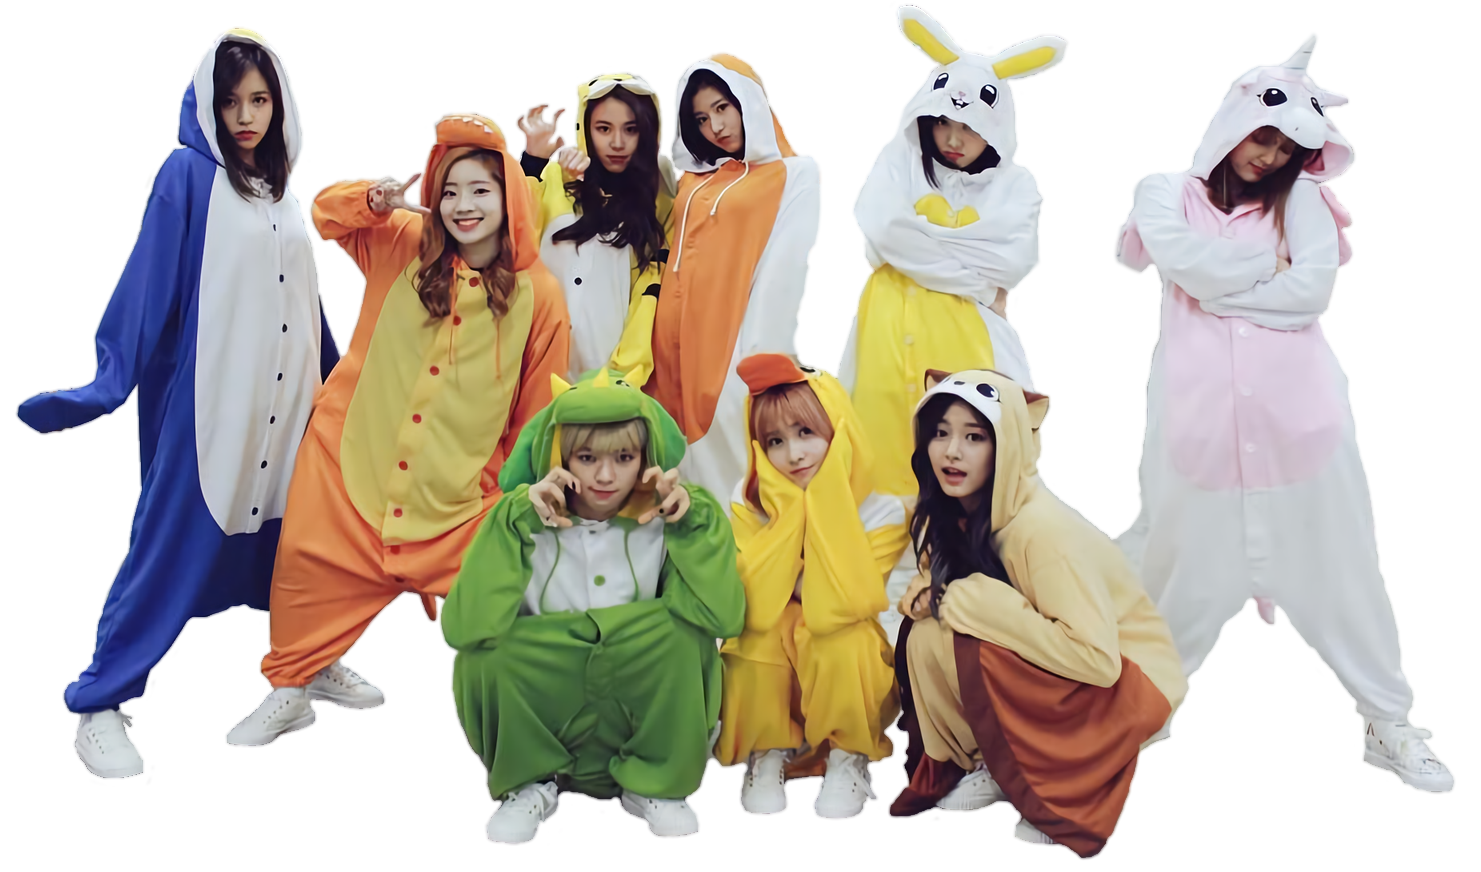
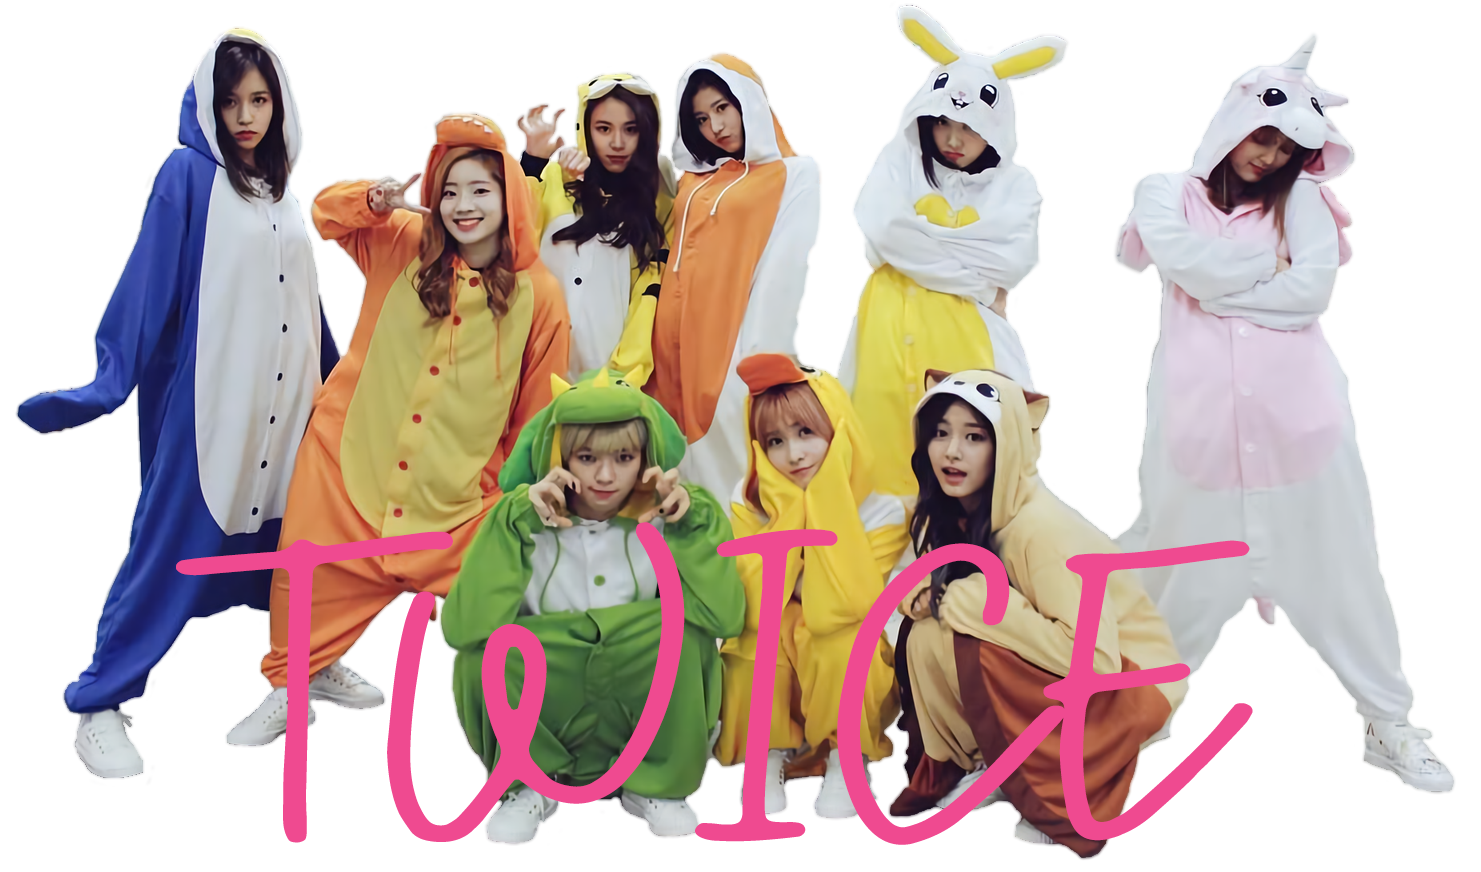
FINAL OUTPUT

Changed region(s): [[0.2485, 0.5883, 0.8697, 0.9908], [0.1242, 0.5883, 0.3106, 0.9599]]

diff --git a/index.html b/index.html
@@ -11,7 +11,7 @@
   <nav class="navbar navbar-expand-md bg-light navbar-light">
     <!-- Brand -->
     <a class="navbar-brand" href="Index.html">
-      <img src="twice-logo-pink.png" width="30" height="30" class="d-inline-block align-top" alt="Twice Dreamland">
+      <img src="twice-logo-trans.png" width="30" height="30" class="d-inline-block align-top" alt="Twice Dreamland">
   </a>
   
     <!-- Toggler/collapsibe Button -->
@@ -44,27 +44,61 @@
       <div class="jumbotron">
         <div class="container">
           <img id="bg-main" src="twice-wallpaper3.png" alt="For the Onces"></img>
-          <p id="cover-front" >TWICE</p>
         </div>
-         
-        <div class="container">
-                    <div class="row">
-                      <div class="col-sm-4">
-                        <img src="twice-logo-pink.png" id="twice-logo-grid1" alt="twice once fans"></img>
-                        <p id="grid">A SIMPLE WEBPAGE ABOUT YOUR BIAS WRECKER!</p>
-                      </div>
-                      <div class="col-sm-4">
-                        <img src="twice-members.jpg" id="twice-members-grid2" alt="bias wreckers"></img>
-                        <p id="grid">LEARN MORE ABOUT YOUR FAVORITE BIAS</p>
-                      </div>
-                      <div class="col-sm-4">
-                        <img src="twice-candybong.jpg" id="twice-candybong-grid3" alt="lighstick"></img>
-                        <p id="grid">&nbsp;&nbsp;&nbsp;&nbsp;&nbsp;&nbsp;&nbsp;&nbsp;&nbsp;&nbsp;&nbsp;&nbsp;&nbsp;&nbsp;&nbsp;&nbsp;&nbsp;&nbsp;&nbsp;&nbsp;&nbsp;&nbsp;&nbsp;&nbsp;CANDY BONG Z</p>
-                        <p>  &nbsp;&nbsp;&nbsp;&nbsp;&nbsp;&nbsp;&nbsp;&nbsp;&nbsp;&nbsp;&nbsp;&nbsp;&nbsp;&nbsp;&nbsp;&nbsp;&nbsp;&nbsp;  OFFICIAL LIGHTSTICK</p>
-                      </div>
-                    </div>
+      </div>
+      <div class="container my-5">
+
+
+        <!-- Section: Block Content -->
+        <section class="dark-grey-text text-center">
+          <!-- First row -->
+          <div class="row">
+      
+            <!-- First column -->
+            <div class="col-lg-4 col-md-12 mb-4">
+      
+              <div class="view overlay z-depth-1">
+                <img src="twice-logo-pink.png" class="img-fluid" alt="Twice Logo">
+                <div class="mask flex-center blue-gradient-rgba">
+                </div>
+              </div>
+              <p class="text-uppercase text-center text-muted mt-4 mb-0">A SIMPLE WEBPAGE ABOUT YOUR BIAS WRECKER!</p>
+      
+            </div>
+            <!-- First column -->
+      
+            <!-- Second column -->
+            <div class="col-lg-4 col-md-6 mb-4">
+      
+              <div class="view overlay z-depth-1">
+                <img src="twice-members.jpg" class="img-fluid" alt="OT9">
+                <div class=" mask flex-center blue-gradient-rgba">
+                </div>
+              </div>
+              <p class="text-uppercase text-center text-muted mt-4 mb-0">LEARN MORE ABOUT YOUR FAVORITE BIAS</p>
+      
+            </div>
+            <!-- Second column -->
+      
+            <!-- Third column -->
+            <div class="col-lg-4 col-md-6 mb-4">
+      
+              <div class="view overlay z-depth-1">
+                <img src="twice-candybong.jpg" class="img-fluid" alt="Candy Bong Z">
+                <div class="mask flex-center blue-gradient-rgba">
+                </div>
+              </div>
+              <p class="text-uppercase text-center text-muted mt-4 mb-0">OFFICIAL LIGHTSTICK</p>
+              <p class="text-uppercase text-center text-muted mt-4 mb-0">CANDY BONG Z</p>
+      
+            </div>
+            <!-- Third column -->
+      
           </div>
-        </div>       
+          <!-- First row -->
+      
+        </section>
+        <!-- Section: Block Content -->      
     <script src="https://code.jquery.com/jquery-3.4.1.slim.min.js" integrity="sha384-J6qa4849blE2+poT4WnyKhv5vZF5SrPo0iEjwBvKU7imGFAV0wwj1yYfoRSJoZ+n" crossorigin="anonymous"></script>
     <script src="https://cdn.jsdelivr.net/npm/popper.js@1.16.0/dist/umd/popper.min.js" integrity="sha384-Q6E9RHvbIyZFJoft+2mJbHaEWldlvI9IOYy5n3zV9zzTtmI3UksdQRVvoxMfooAo" crossorigin="anonymous"></script>
     <script src="https://stackpath.bootstrapcdn.com/bootstrap/4.4.1/js/bootstrap.min.js" integrity="sha384-wfSDF2E50Y2D1uUdj0O3uMBJnjuUD4Ih7YwaYd1iqfktj0Uod8GCExl3Og8ifwB6" crossorigin="anonymous"></script>

diff --git a/Portfolio.html b/Portfolio.html
@@ -12,7 +12,7 @@
   <nav class="navbar navbar-expand-md bg-light navbar-light">
     <!-- Brand -->
     <a class="navbar-brand" href="Index.html">
-      <img src="twice-logo-pink.png" width="30" height="30" class="d-inline-block align-top" alt="Twice Dreamland">
+      <img src="twice-logo-trans.png" width="30" height="30" class="d-inline-block align-top" alt="Twice Dreamland">
   </a>
   
     <!-- Toggler/collapsibe Button -->
@@ -344,38 +344,70 @@
         </div>
       </div>
     </section>
-    <section>
-      <div class="card mb-4">
+
+    <div class="container my-5">
+
+
+      <!-- Section: Block Content -->
+      <section class="dark-grey-text">
+    
+        <h3 class="text-center font-weight-bold mb-4 pb-2">About the Author</h3>
+        <p class="text-center text-muted w-responsive mx-auto mb-5">Hi! I'm Shan Michael P. Olano, I am currently taking my 2nd year at University of Science and Technology of Southern Philippines.
+          I like watching tech unboxing reviews, toy reviews, and DIY videos. 
+        </p>
+    
+        <!-- Grid row -->
         <div class="row">
-          <div class="col-md-6">
-            <img class="img-fluid rounded-left" src="port-jihyo.png" alt="project image">
+    
+          <!-- Grid column -->
+          <div class="col-lg-5 mb-lg-0 mb-5">
+    
+            <img src="self.jpg" class="img-fluid rounded z-depth-1" alt="Creator">
+    
           </div>
-          <div class="col-md-6 p-5 align-self-center">
-            <p class="text-uppercase mb-2"><strong>Leader, Main Vocalist</strong></p>
-            <p class="text-muted">She became a JYP trainee when she was a third grader after she won the 2nd place in a contest on Junior Naver for a child role.
-              – She is the Twice member who trained the most. She trained for 10 years.</p>
-            <ul class="list-unstyled font-small mt-5 mb-0">
-              <li>
-                <p class="text-uppercase mb-2"><strong>Stage Name:</strong></p>
-                <p class="text-muted mb-4">Jihyo (지효)</p>
+          <!-- Grid column -->
+    
+          <!-- Grid column -->
+          <div class="col-lg-7">
+    
+            <ul class="list-unstyled fa-ul mb-0">
+              <li class="d-flex justify-content- pl-4">
+                <span class="fa-li"><i class="fas fa-book fa-2x cyan-text"></i></span>
+                <div>
+                  <h5 class="font-weight-bold mb-3">Personal Information</h5>
+                  <p class="text-muted">Shan Michael Pioquinto Olano</p>
+                  <p class="text-muted">20 years Old </p>
+                  <p class="text-muted">Iponan,Cagayan de Oro City</p>
+                </div>
               </li>
-              <li>
-                <p class="text-uppercase mb-2"><strong>Birth Name:</strong></p>
-                <p class="text-muted mb-4"> Park Ji Soo (박지수) but legalized her name to Park Ji Hyo (박지효)</p>
-              </li>
-              <li>
-                <p class="text-uppercase mb-2"><strong>Nationality:</strong></p>
-                <p class="text-muted mb-4">Korean</p>
-              </li>
-              <li>
-                <p class="text-uppercase mb-2"><strong>Birthday: </strong></p>
-                <p class="text-muted mb-4">February 1,1997</p>
+              <li class="d-flex justify-content- pl-4">
+                <span class="fa-li"><i class="fas fa-code fa-2x red-text"></i></span>
+                <div>
+                  <h5 class="font-weight-bold mb-3">Hobby</h5>
+                  <p class="text-muted">Playing Guitar</p>
+                  <p class="text-muted">Baking Pastry</p>
+                  <p class="text-muted">Streaming Korean Drama, Mv's</p>
+                  <p class="text-muted">Online,Offline Games</p>
+                </div>
               </li>
             </ul>
+    
           </div>
+          <!-- Grid column -->
+    
         </div>
-      </div>
-    </section>
+        <!-- Grid row -->
+    
+        <hr class="my-5">
+    
+      </section>
+      <!-- Section: Block Content -->
+    
+    
+    </div>
+
+    
+
   </div>
 
   <script src="https://code.jquery.com/jquery-3.4.1.slim.min.js" integrity="sha384-J6qa4849blE2+poT4WnyKhv5vZF5SrPo0iEjwBvKU7imGFAV0wwj1yYfoRSJoZ+n" crossorigin="anonymous"></script>

diff --git a/style.css b/style.css
@@ -27,40 +27,13 @@
 
 }
 .carousel{
-    width:75%;
-    height:25%;
+    width:100%;
+    height:100%;
   }
 #bg-main {
     content: fill;
     max-width: 100%;
     min-width: 100%;
-}
-#cover-front {
-    position: absolute;
-    font-family: 'Dancing Script','cursive';
-    font-weight: 600vw;
-    left:300px;
-    top: 150px;
-    font-size: 18vw;  
-    color: 	#ff1493;  
-}
-#twice-logo-grid1 {
-    position: relative;
-    max-width: 250px; 
-    max-height: 250px;
-}
-#twice-members-grid2 {
-    position: relative;
-    max-width: 250px; 
-    max-height: 250px;
-    left: 40px;
-}
-
-#twice-candybong-grid3 {
-    position: relative;
-    max-width: 250px; 
-    max-height: 250px;
-    left: 40px;
 }
 #twice1 {
     object-fit: fill;

diff --git a/Contact.html b/Contact.html
@@ -13,7 +13,7 @@
    <nav class="navbar navbar-expand-md bg-light navbar-light">
     <!-- Brand -->
     <a class="navbar-brand" href="Index.html">
-      <img src="twice-logo-pink.png" width="30" height="30" class="d-inline-block align-top" alt="Twice Dreamland">
+      <img src="twice-logo-trans.png" width="30" height="30" class="d-inline-block align-top" alt="Twice Dreamland">
   </a>
   
     <!-- Toggler/collapsibe Button -->

diff --git a/Gallery.html b/Gallery.html
@@ -12,7 +12,7 @@
   <nav class="navbar navbar-expand-md bg-light navbar-light">
     <!-- Brand -->
     <a class="navbar-brand" href="Index.html">
-      <img src="twice-logo-pink.png" width="30" height="30" class="d-inline-block align-top" alt="Twice Dreamland">
+      <img src="twice-logo-trans.png" width="30" height="30" class="d-inline-block align-top" alt="Twice Dreamland">
   </a>
   
     <!-- Toggler/collapsibe Button -->
